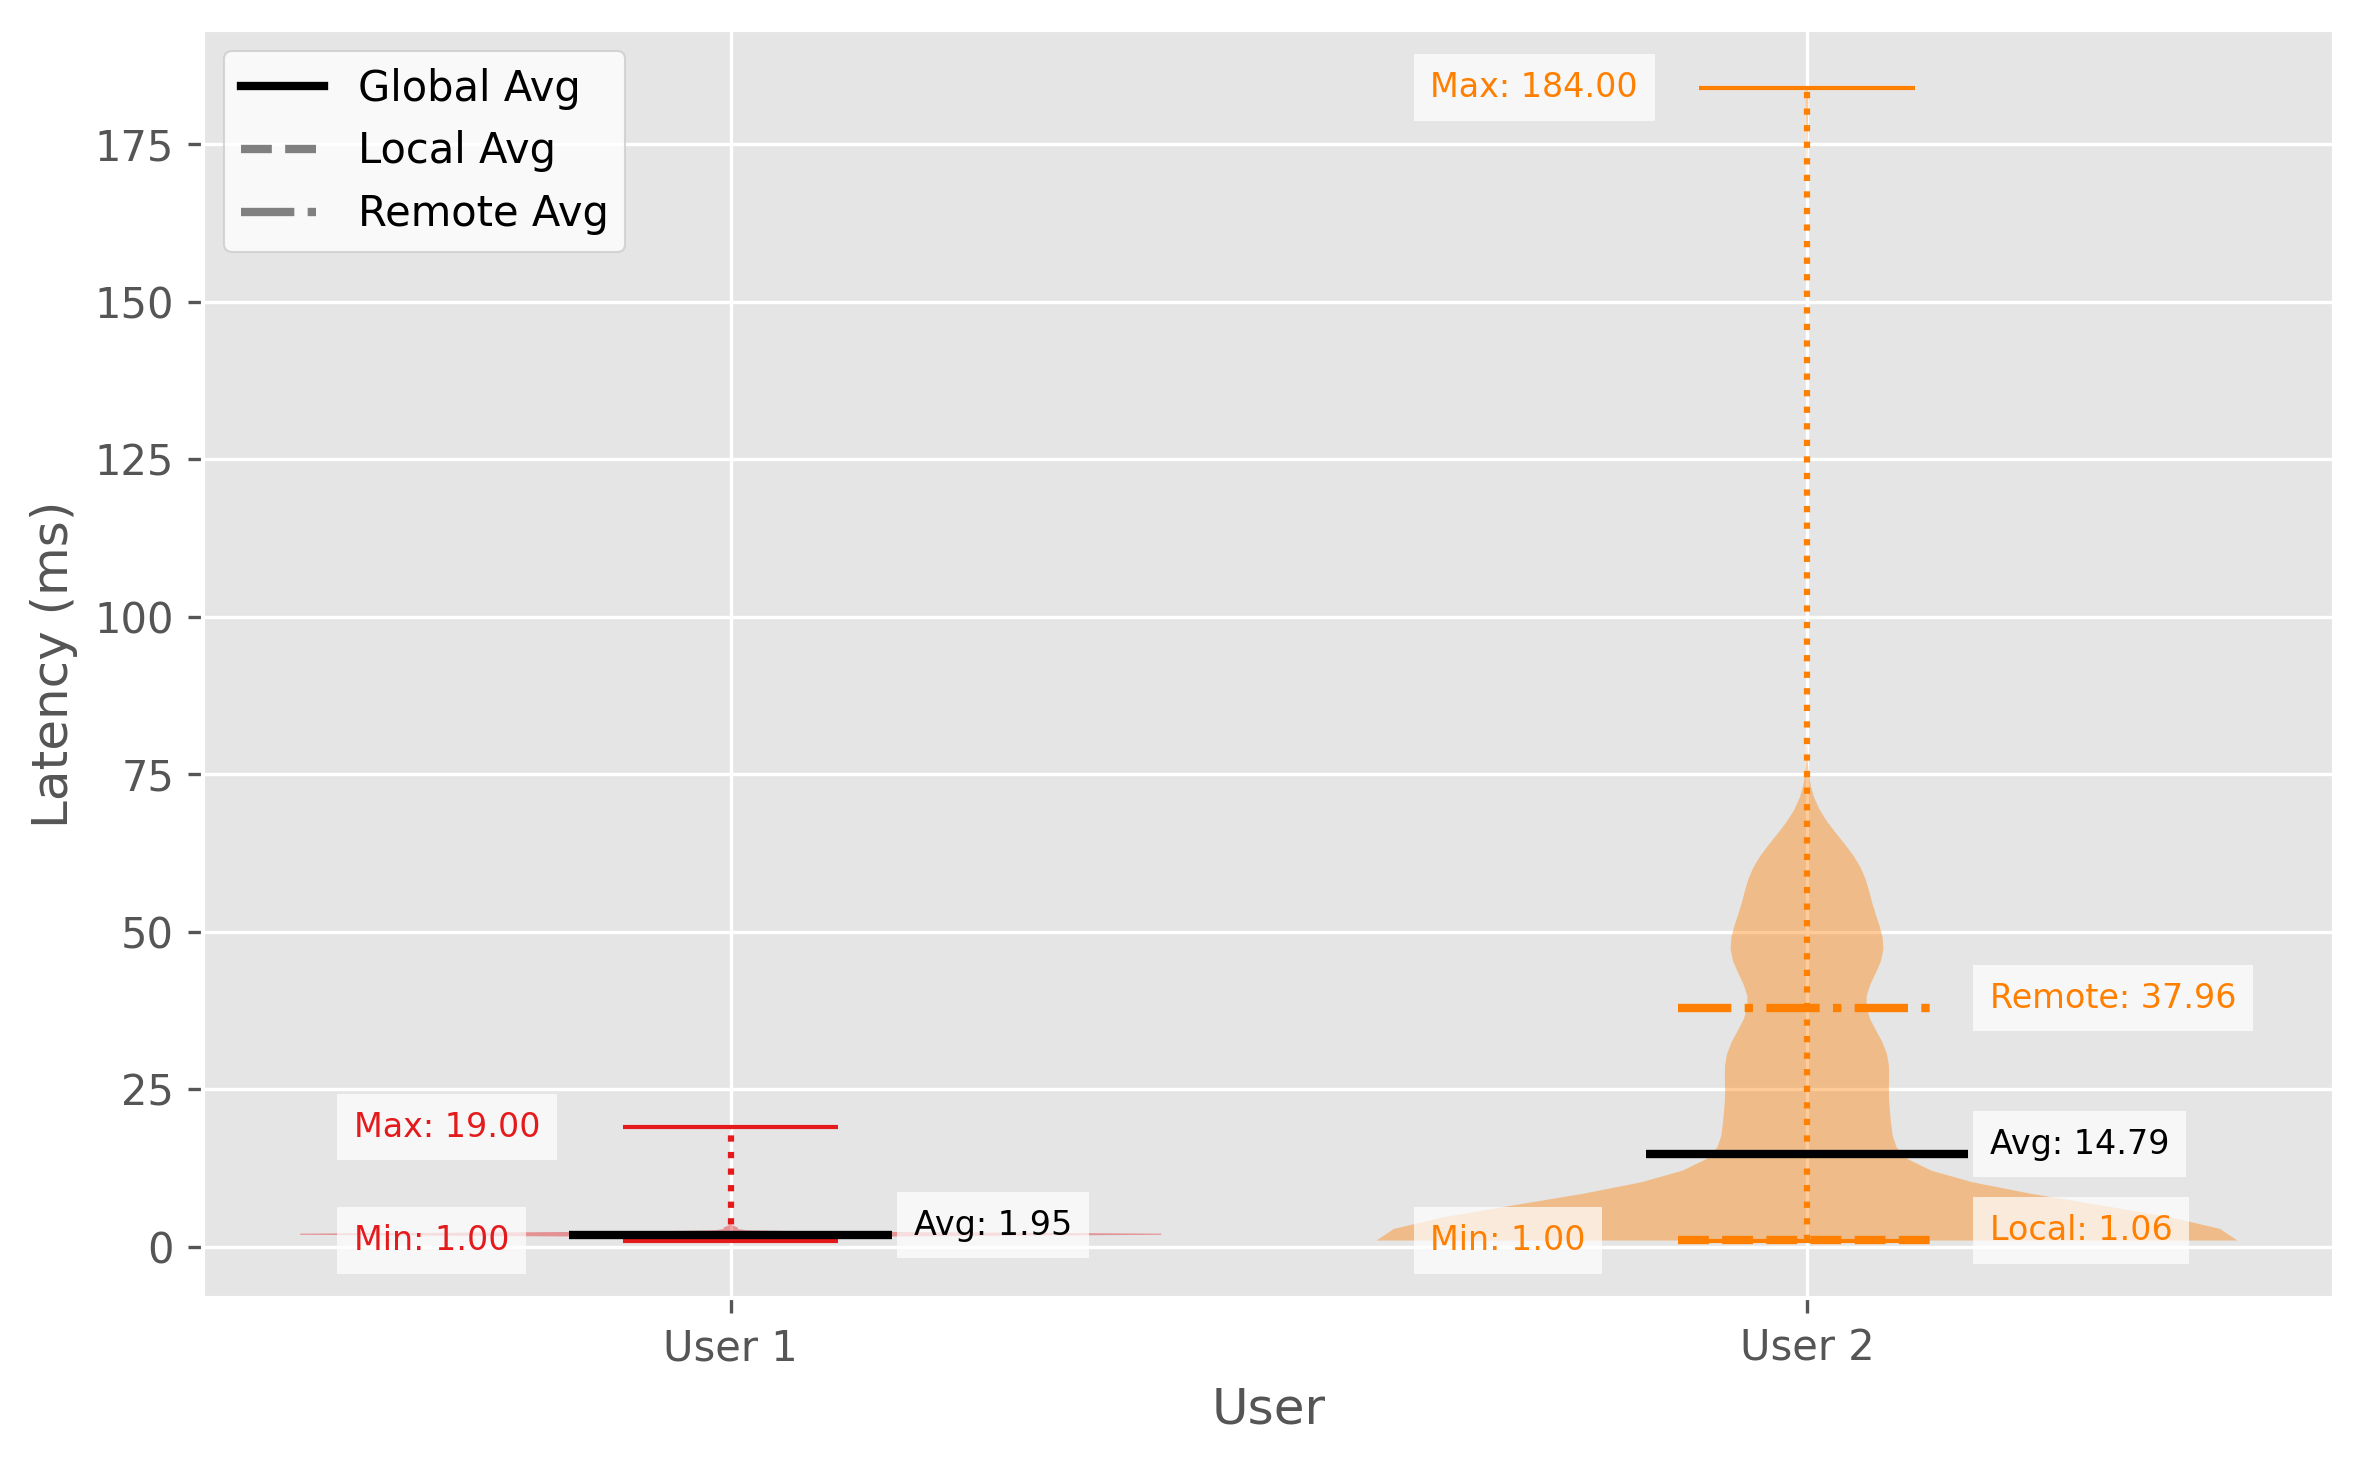
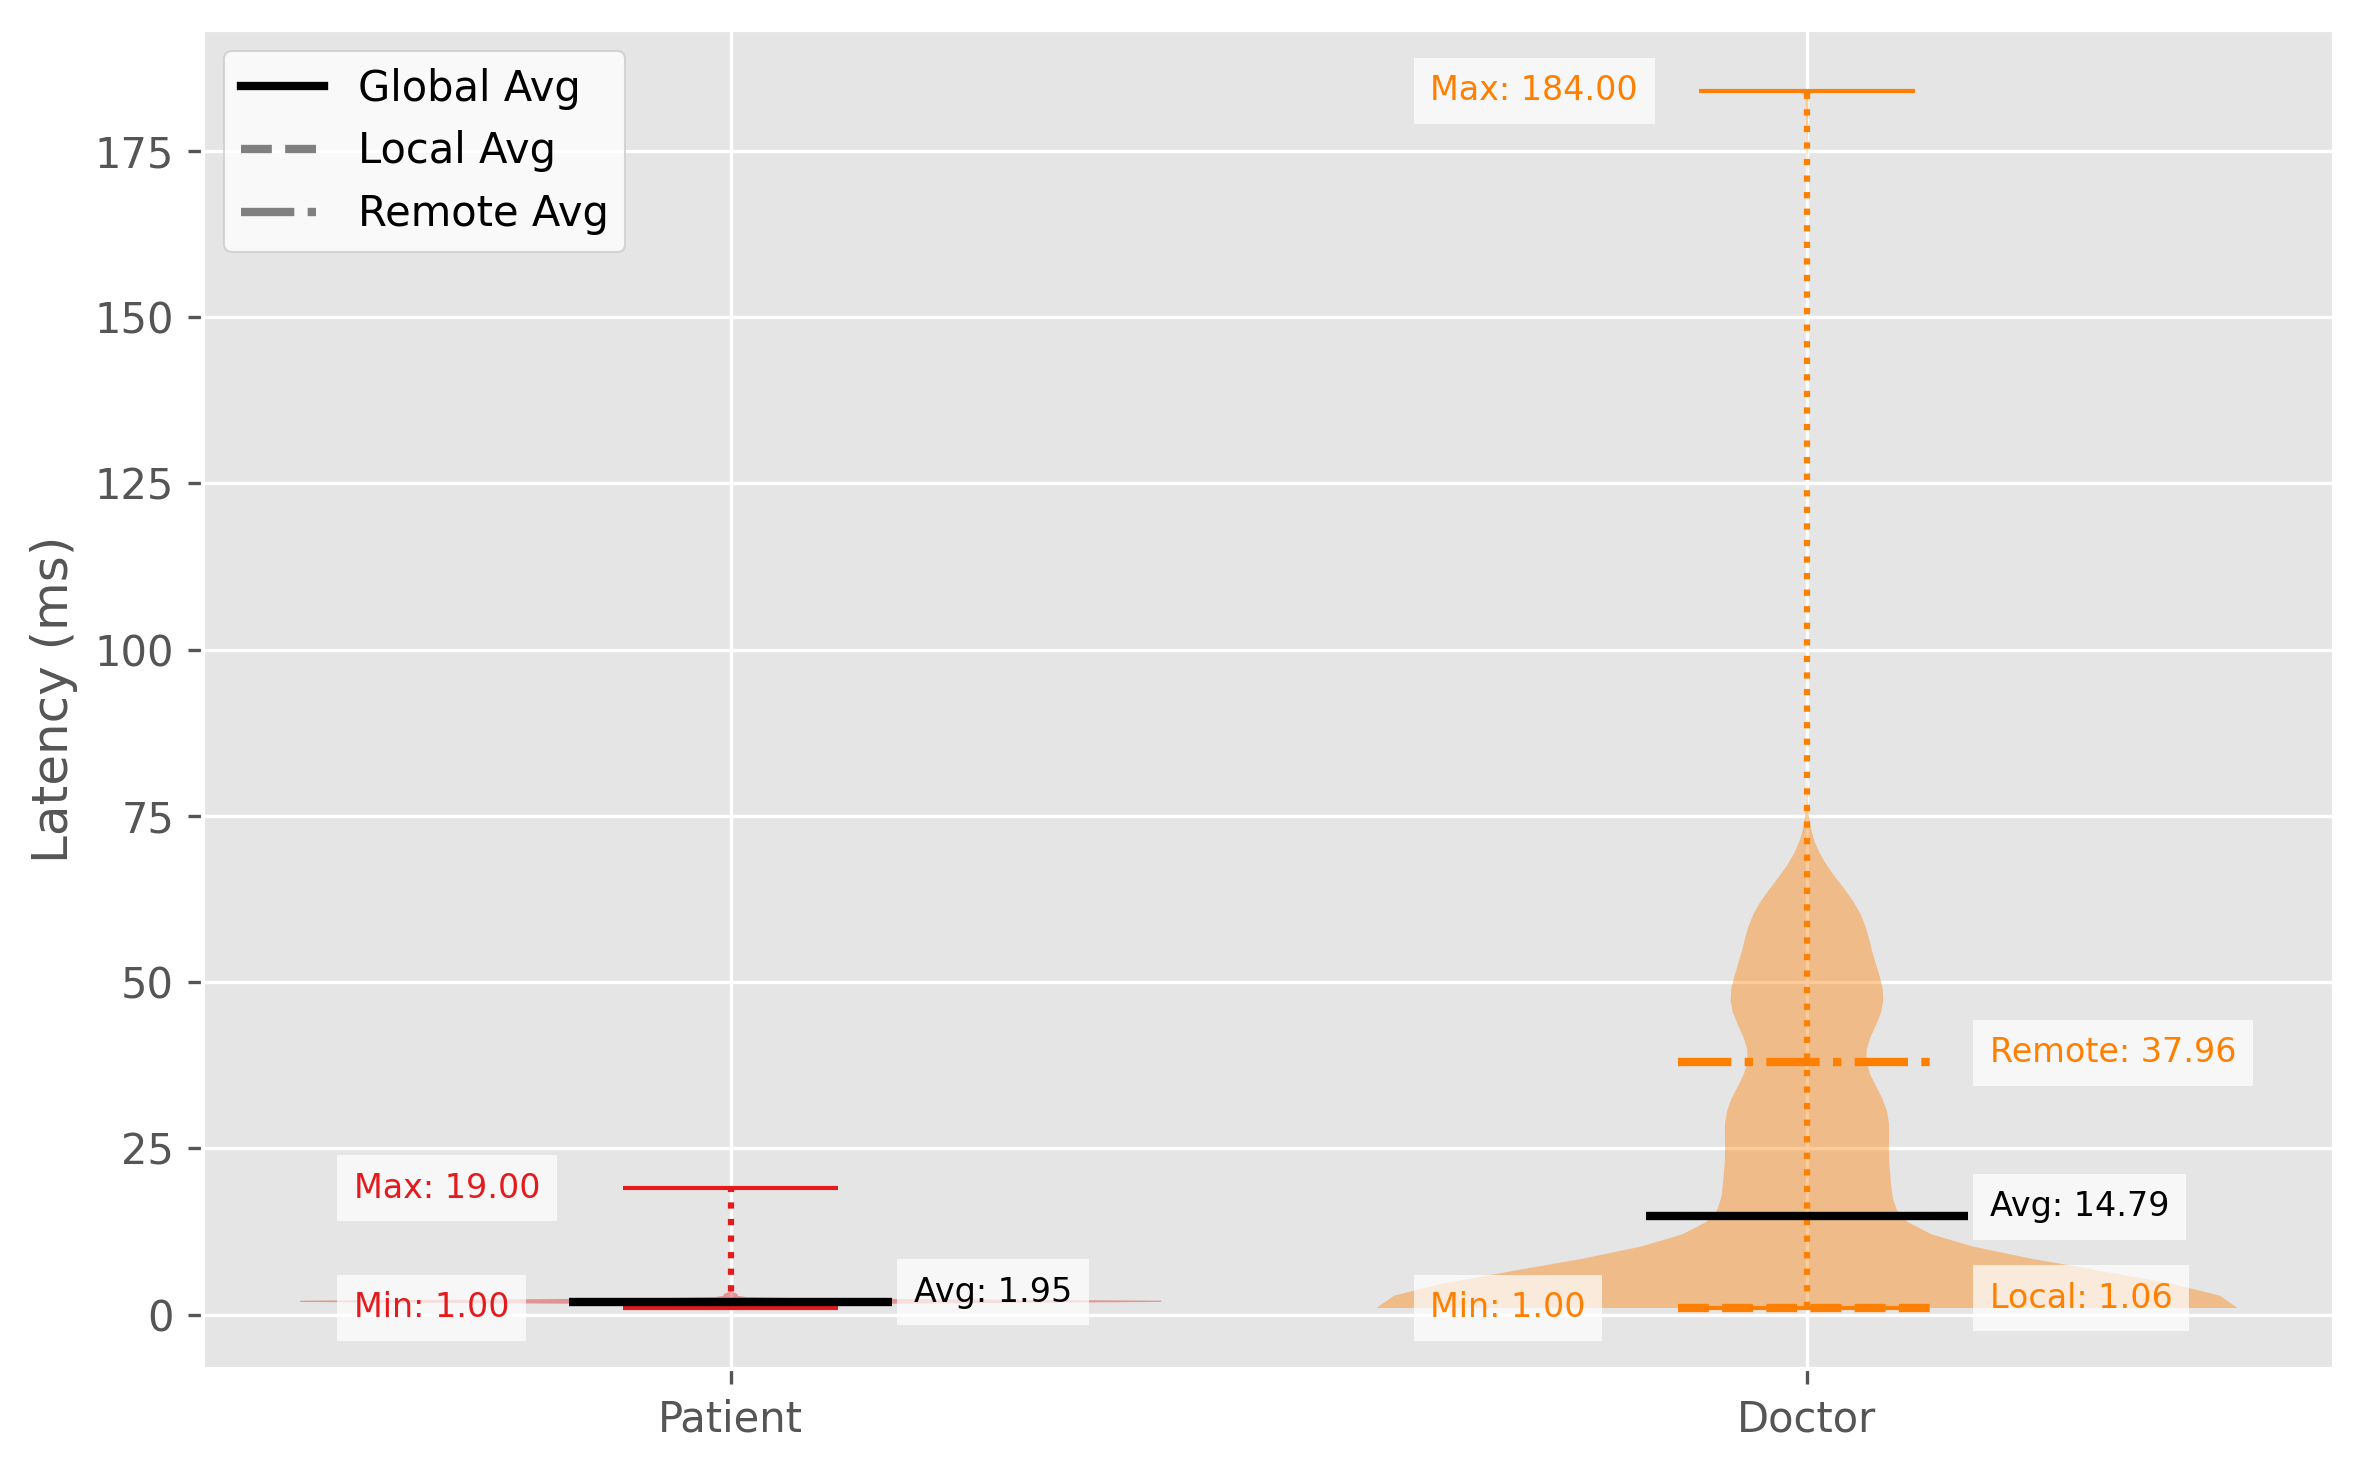
Put use-case specific labels in full_traversal violin plot

diff --git a/ermes_benchmark/convergence_test/code/plots/latency.py b/ermes_benchmark/convergence_test/code/plots/latency.py
@@ -2,8 +2,8 @@ import matplotlib.pyplot as plt
 import numpy as np
 import pandas as pd
 from matplotlib.lines import Line2D
-from matplotlib.patches import Rectangle
 from matplotlib.patches import Patch
+from matplotlib.patches import Rectangle
 
 
 def local_vs_remote_latency(dfs):
@@ -262,7 +262,7 @@ def local_vs_remote_latency_violin_old(dfs):
     plt.tight_layout()
     return fig
 
-def local_vs_remote_latency_violin(dfs):
+def local_vs_remote_latency_violin(dfs, scenario):
     """
     Violin Plot personalizzato con Min, Max, Avg, Avg Local e Avg Remote.
     """
@@ -273,6 +273,8 @@ def local_vs_remote_latency_violin(dfs):
     x = np.arange(n_files)
     colors = plt.cm.Set1(np.linspace(0, 1, max(n_files, 3)))
     file_labels = [f'User {i + 1}' for i in range(n_files)]
+    if scenario == "full_traversal":
+        file_labels = ["Patient", "Doctor"]
 
     data_list = []
     stats = []
@@ -348,7 +350,7 @@ def local_vs_remote_latency_violin(dfs):
     ax.legend(handles=legend_elements, loc='upper left', facecolor='white')
 
     # ax.set_title('User Latency Analysis: Violin Plot con Distribuzione e Valori Statistici')
-    ax.set_xlabel('User')
+    # ax.set_xlabel('User')
     ax.set_ylabel('Latency (ms)')
     ax.set_xticks(x)
     ax.set_xticklabels(file_labels)

diff --git a/ermes_benchmark/convergence_test/code/main.py b/ermes_benchmark/convergence_test/code/main.py
@@ -193,7 +193,7 @@ def main():
 
     # 3.6 Latency Violin Plot
     print("Generating latency violin plot...")
-    latency.local_vs_remote_latency_violin(full_dfs)
+    latency.local_vs_remote_latency_violin(full_dfs, args.subfolder)
     plt.savefig(f'{output_dir}/local_vs_remote_latency_violin.png', dpi=300, bbox_inches='tight')
     plt.savefig(f'{output_dir}/pdf/local_vs_remote_latency_violin.pdf')
     plt.close()
